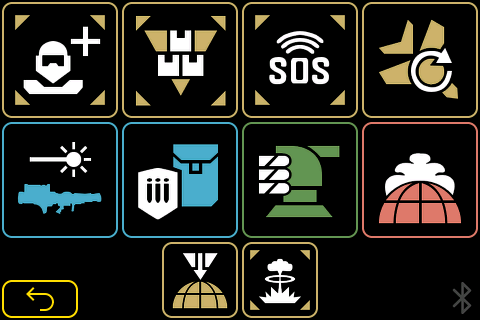
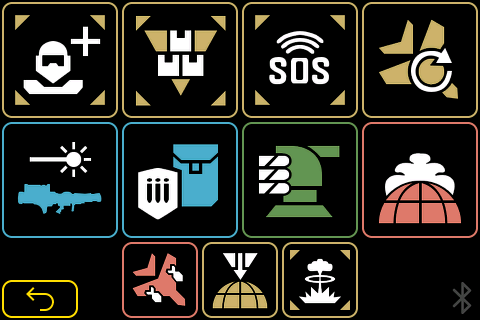
Add 5th user stratagems for assignment

Changed region(s): [[0.25, 0.75, 0.75, 1.0]]

diff --git a/src/ui/screens/ui_Setup.c b/src/ui/screens/ui_Setup.c
@@ -652,7 +652,7 @@ void ui_Setup_screen_init(void)
 
     ui_Container3 = lv_obj_create(ui_Stationary);
     lv_obj_remove_style_all(ui_Container3);
-    lv_obj_set_width(ui_Container3, lv_pct(90));
+    lv_obj_set_width(ui_Container3, lv_pct(100));
     lv_obj_set_height(ui_Container3, lv_pct(100));
     lv_obj_set_align(ui_Container3, LV_ALIGN_CENTER);
     lv_obj_set_flex_flow(ui_Container3, LV_FLEX_FLOW_ROW_WRAP);
@@ -768,7 +768,8 @@ void ui_Setup_screen_init(void)
     ui_StationaryFS = lv_btn_create(ui_Container3);
     lv_obj_set_width(ui_StationaryFS, 72);
     lv_obj_set_height(ui_StationaryFS, 72);
-    lv_obj_add_flag(ui_StationaryFS, LV_OBJ_FLAG_CHECKABLE | LV_OBJ_FLAG_SCROLL_ON_FOCUS);     /// Flags
+    lv_obj_add_flag(ui_StationaryFS, LV_OBJ_FLAG_CHECKABLE | LV_OBJ_FLAG_FLEX_IN_NEW_TRACK |
+                    LV_OBJ_FLAG_SCROLL_ON_FOCUS);   /// Flags
     lv_obj_clear_flag(ui_StationaryFS, LV_OBJ_FLAG_SCROLLABLE);      /// Flags
     lv_obj_set_style_bg_color(ui_StationaryFS, lv_color_hex(0xFFDF00), LV_PART_MAIN | LV_STATE_DEFAULT);
     lv_obj_set_style_bg_opa(ui_StationaryFS, 0, LV_PART_MAIN | LV_STATE_DEFAULT);
@@ -868,7 +869,8 @@ void ui_Setup_screen_init(void)
     ui_StationarySGR = lv_btn_create(ui_Container3);
     lv_obj_set_width(ui_StationarySGR, 72);
     lv_obj_set_height(ui_StationarySGR, 72);
-    lv_obj_add_flag(ui_StationarySGR, LV_OBJ_FLAG_CHECKABLE | LV_OBJ_FLAG_SCROLL_ON_FOCUS);     /// Flags
+    lv_obj_add_flag(ui_StationarySGR, LV_OBJ_FLAG_CHECKABLE | LV_OBJ_FLAG_FLEX_IN_NEW_TRACK |
+                    LV_OBJ_FLAG_SCROLL_ON_FOCUS);   /// Flags
     lv_obj_clear_flag(ui_StationarySGR, LV_OBJ_FLAG_SCROLLABLE);      /// Flags
     lv_obj_set_style_bg_color(ui_StationarySGR, lv_color_hex(0xFFDF00), LV_PART_MAIN | LV_STATE_DEFAULT);
     lv_obj_set_style_bg_opa(ui_StationarySGR, 0, LV_PART_MAIN | LV_STATE_DEFAULT);
@@ -1216,7 +1218,7 @@ void ui_Setup_screen_init(void)
 
     ui_Container7 = lv_obj_create(ui_Eagle);
     lv_obj_remove_style_all(ui_Container7);
-    lv_obj_set_width(ui_Container7, lv_pct(75));
+    lv_obj_set_width(ui_Container7, lv_pct(100));
     lv_obj_set_height(ui_Container7, lv_pct(100));
     lv_obj_set_align(ui_Container7, LV_ALIGN_CENTER);
     lv_obj_set_flex_flow(ui_Container7, LV_FLEX_FLOW_ROW_WRAP);
@@ -1312,7 +1314,8 @@ void ui_Setup_screen_init(void)
     ui_EagleSR = lv_btn_create(ui_Container7);
     lv_obj_set_width(ui_EagleSR, 72);
     lv_obj_set_height(ui_EagleSR, 72);
-    lv_obj_add_flag(ui_EagleSR, LV_OBJ_FLAG_CHECKABLE | LV_OBJ_FLAG_SCROLL_ON_FOCUS);     /// Flags
+    lv_obj_add_flag(ui_EagleSR, LV_OBJ_FLAG_CHECKABLE | LV_OBJ_FLAG_FLEX_IN_NEW_TRACK |
+                    LV_OBJ_FLAG_SCROLL_ON_FOCUS);     /// Flags
     lv_obj_clear_flag(ui_EagleSR, LV_OBJ_FLAG_SCROLLABLE);      /// Flags
     lv_obj_set_style_bg_color(ui_EagleSR, lv_color_hex(0xFFDF00), LV_PART_MAIN | LV_STATE_DEFAULT);
     lv_obj_set_style_bg_opa(ui_EagleSR, 0, LV_PART_MAIN | LV_STATE_DEFAULT);
@@ -1426,7 +1429,7 @@ void ui_Setup_screen_init(void)
                                            _ui_theme_alpha_colorActive);
 
     ui_BarAmount = lv_bar_create(ui_SetupFooter);
-    lv_bar_set_range(ui_BarAmount, 0, 4);
+    lv_bar_set_range(ui_BarAmount, 0, 5);
     lv_obj_set_width(ui_BarAmount, 192);
     lv_obj_set_height(ui_BarAmount, 8);
     lv_obj_set_x(ui_BarAmount, 0);
@@ -1444,7 +1447,7 @@ void ui_Setup_screen_init(void)
     lv_obj_set_width(ui_LblAmount, 40);
     lv_obj_set_height(ui_LblAmount, LV_SIZE_CONTENT);    /// 1
     lv_obj_set_align(ui_LblAmount, LV_ALIGN_TOP_MID);
-    lv_label_set_text(ui_LblAmount, "0 / 4");
+    lv_label_set_text(ui_LblAmount, "0 / 5");
     ui_object_set_themeable_style_property(ui_LblAmount, LV_PART_MAIN | LV_STATE_DEFAULT, LV_STYLE_TEXT_COLOR,
                                            _ui_theme_color_colorTheme);
     ui_object_set_themeable_style_property(ui_LblAmount, LV_PART_MAIN | LV_STATE_DEFAULT, LV_STYLE_TEXT_OPA,

diff --git a/src/ui/ui_events.c b/src/ui/ui_events.c
@@ -14,11 +14,12 @@
 #include "ui_assignment.h"
 
 // 4 user button list
-lv_obj_t *buttons[4];
+lv_obj_t *buttons[5];
+const int userStratagemAmount = 5;
 // Stratagem list index of user buttons
-int indices[4];
+int indices[5];
 // Strategem item colors of user buttons
-lv_color_t colors[4];
+lv_color_t colors[5];
 // Amount of user assigned stratagems
 uint8_t strategemsAmount = 0;
 
@@ -28,7 +29,7 @@ uint8_t strategemsAmount = 0;
 // Unassign stratagem item from button
 void deselectStratagem(lv_event_t *e)
 {
-	for (uint8_t c = 0; c < 4; c++)
+	for (uint8_t c = 0; c < userStratagemAmount; c++)
 	{
 		if (buttons[c] == e->target)
 		{
@@ -46,9 +47,9 @@ void deselectStratagem(lv_event_t *e)
 // Assign stratagem item from button
 void selectStratagem(lv_event_t *e)
 {
-	if (strategemsAmount < 4)
+	if (strategemsAmount < userStratagemAmount)
 	{
-		for (uint8_t c = 0; c < 4; c++)
+		for (uint8_t c = 0; c < userStratagemAmount; c++)
 		{
 			if (buttons[c] == NULL)
 			{
@@ -81,7 +82,7 @@ void updateStratagemSelection()
 {
 	strategemsAmount = 0;
 
-	for (uint8_t c = 0; c < 4; c++)
+	for (uint8_t c = 0; c < userStratagemAmount; c++)
 	{
 		if (buttons[c] != NULL)
 		{
@@ -91,12 +92,12 @@ void updateStratagemSelection()
 
 	lv_bar_set_value(uic_BarAmount, strategemsAmount, LV_ANIM_OFF);
 
-	char textAmount[] = "0 / 4";
+	char textAmount[] = "0 / 5";
 	textAmount[0] = (char)(strategemsAmount + '0');
 
 	lv_label_set_text(uic_LabelAmount, &textAmount);
 
-	if (strategemsAmount == 4)
+	if (strategemsAmount == userStratagemAmount)
 	{
 		GotoGame(NULL);
 	}
@@ -110,7 +111,7 @@ void resetStratagems(lv_event_t *e)
 		return;
 	}
 
-	for (uint8_t c = 0; c < 4; c++)
+	for (uint8_t c = 0; c < userStratagemAmount; c++)
 	{
 		if (buttons[c] != NULL)
 		{
@@ -293,6 +294,19 @@ void triggerStratagemUser4(lv_event_t *e)
 	playbackSound(path);
 }
 
+// Trigger 5th user stratagem
+void triggerStratagemUser5(lv_event_t *e)
+{
+	uint8_t itemIndex = indices[4];
+
+	setStratagemCode(sequences[itemIndex], INPUT_CTRL_MASK, false);
+
+	uint8_t soundIndex = soundMap[itemIndex];
+	char *path = soundFiles[soundIndex];
+
+	playbackSound(path);
+}
+
 // Change HID input delay
 void ChangeDelay(lv_event_t *e)
 {
@@ -361,14 +375,14 @@ void FlipScreen(lv_event_t *e)
 // Goto game screen
 void GotoGame(lv_event_t *e)
 {
-	for (uint8_t c = 0; c < 4; c++)
+	for (uint8_t c = 0; c < userStratagemAmount; c++)
 	{
 		const lv_obj_t *button = buttons[c];
 		const lv_img_dsc_t *bgImg = lv_obj_get_style_bg_img_src(button, LV_PART_MAIN | LV_STATE_DEFAULT);
 		const bool configured = buttons[c] != NULL;
 		lv_obj_t *targetButton = ui_CustomStratagem1;
 
-		const lv_img_dsc_t *hires = ResolveHiResIcon(bgImg);
+		bool useHiResIcon = true;
 
 		switch (c)
 		{
@@ -381,14 +395,20 @@ void GotoGame(lv_event_t *e)
 		case 3:
 			targetButton = ui_CustomStratagem4;
 			break;
+		case 4:
+			targetButton = ui_CustomStratagem5;
+			useHiResIcon = false;
+			break;
 		}
+
+		const lv_img_dsc_t *hires = useHiResIcon ? ResolveHiResIcon(bgImg) : bgImg;
 
 		if (configured)
 		{
-			lv_obj_set_style_border_color(targetButton, colors[c], LV_PART_MAIN | LV_STATE_DEFAULT);			
+			lv_obj_set_style_border_color(targetButton, colors[c], LV_PART_MAIN | LV_STATE_DEFAULT);
 			lv_obj_set_style_bg_img_src(targetButton, hires, LV_PART_MAIN | LV_STATE_DEFAULT);
 
-			lv_obj_clear_flag(targetButton, LV_OBJ_FLAG_HIDDEN);			
+			lv_obj_clear_flag(targetButton, LV_OBJ_FLAG_HIDDEN);
 		}
 		else
 		{

diff --git a/src/ui/screens/ui_Game.c b/src/ui/screens/ui_Game.c
@@ -218,11 +218,11 @@ void ui_Game_screen_init(void)
 
     ui_Container5 = lv_obj_create(ui_Game);
     lv_obj_remove_style_all(ui_Container5);
-    lv_obj_set_width(ui_Container5, LV_SIZE_CONTENT);   /// 1
+    lv_obj_set_width(ui_Container5, lv_pct(50));
     lv_obj_set_height(ui_Container5, LV_SIZE_CONTENT);    /// 1
     lv_obj_set_align(ui_Container5, LV_ALIGN_BOTTOM_MID);
     lv_obj_set_flex_flow(ui_Container5, LV_FLEX_FLOW_ROW);
-    lv_obj_set_flex_align(ui_Container5, LV_FLEX_ALIGN_START, LV_FLEX_ALIGN_START, LV_FLEX_ALIGN_START);
+    lv_obj_set_flex_align(ui_Container5, LV_FLEX_ALIGN_CENTER, LV_FLEX_ALIGN_START, LV_FLEX_ALIGN_START);
     lv_obj_clear_flag(ui_Container5, LV_OBJ_FLAG_CLICKABLE | LV_OBJ_FLAG_SCROLLABLE);      /// Flags
     lv_obj_set_style_pad_left(ui_Container5, 2, LV_PART_MAIN | LV_STATE_DEFAULT);
     lv_obj_set_style_pad_right(ui_Container5, 2, LV_PART_MAIN | LV_STATE_DEFAULT);
@@ -230,6 +230,26 @@ void ui_Game_screen_init(void)
     lv_obj_set_style_pad_bottom(ui_Container5, 2, LV_PART_MAIN | LV_STATE_DEFAULT);
     lv_obj_set_style_pad_row(ui_Container5, 4, LV_PART_MAIN | LV_STATE_DEFAULT);
     lv_obj_set_style_pad_column(ui_Container5, 4, LV_PART_MAIN | LV_STATE_DEFAULT);
+
+    ui_CustomStratagem5 = lv_btn_create(ui_Container5);
+    lv_obj_set_width(ui_CustomStratagem5, 76);
+    lv_obj_set_height(ui_CustomStratagem5, 76);
+    lv_obj_set_x(ui_CustomStratagem5, 244);
+    lv_obj_set_y(ui_CustomStratagem5, -8);
+    lv_obj_set_align(ui_CustomStratagem5, LV_ALIGN_BOTTOM_LEFT);
+    lv_obj_add_flag(ui_CustomStratagem5, LV_OBJ_FLAG_SCROLL_ON_FOCUS);     /// Flags
+    lv_obj_clear_flag(ui_CustomStratagem5, LV_OBJ_FLAG_SCROLLABLE);      /// Flags
+    lv_obj_set_style_bg_color(ui_CustomStratagem5, lv_color_hex(0x000000), LV_PART_MAIN | LV_STATE_DEFAULT);
+    lv_obj_set_style_bg_opa(ui_CustomStratagem5, 127, LV_PART_MAIN | LV_STATE_DEFAULT);
+    ui_object_set_themeable_style_property(ui_CustomStratagem5, LV_PART_MAIN | LV_STATE_DEFAULT, LV_STYLE_BORDER_COLOR,
+                                           _ui_theme_color_colorTheme);
+    ui_object_set_themeable_style_property(ui_CustomStratagem5, LV_PART_MAIN | LV_STATE_DEFAULT, LV_STYLE_BORDER_OPA,
+                                           _ui_theme_alpha_colorTheme);
+    lv_obj_set_style_border_width(ui_CustomStratagem5, 2, LV_PART_MAIN | LV_STATE_DEFAULT);
+    ui_object_set_themeable_style_property(ui_CustomStratagem5, LV_PART_MAIN | LV_STATE_PRESSED, LV_STYLE_BORDER_COLOR,
+                                           _ui_theme_color_colorActive);
+    ui_object_set_themeable_style_property(ui_CustomStratagem5, LV_PART_MAIN | LV_STATE_PRESSED, LV_STYLE_BORDER_OPA,
+                                           _ui_theme_alpha_colorActive);
 
     ui_BtnSEAF = lv_btn_create(ui_Container5);
     lv_obj_set_width(ui_BtnSEAF, 76);
@@ -278,6 +298,7 @@ void ui_Game_screen_init(void)
     lv_obj_add_event_cb(ui_CustomStratagem3, ui_event_CustomStratagem3, LV_EVENT_ALL, NULL);
     lv_obj_add_event_cb(ui_CustomStratagem4, ui_event_CustomStratagem4, LV_EVENT_ALL, NULL);
     lv_obj_add_event_cb(ui_BtnBack, ui_event_BtnBack, LV_EVENT_ALL, NULL);
+    lv_obj_add_event_cb(ui_CustomStratagem5, ui_event_CustomStratagem5, LV_EVENT_ALL, NULL);
     lv_obj_add_event_cb(ui_BtnSEAF, ui_event_BtnSEAF, LV_EVENT_ALL, NULL);
     lv_obj_add_event_cb(ui_BtnHellbomb, ui_event_BtnHellbomb, LV_EVENT_ALL, NULL);
     uic_CntBT = ui_CntBT;

diff --git a/src/ui/ui.c b/src/ui/ui.c
@@ -194,6 +194,8 @@ void ui_event_BtnBack(lv_event_t * e);
 lv_obj_t * ui_BtnBack;
 lv_obj_t * ui_CntBT;
 lv_obj_t * ui_Container5;
+void ui_event_CustomStratagem5(lv_event_t * e);
+lv_obj_t * ui_CustomStratagem5;
 void ui_event_BtnSEAF(lv_event_t * e);
 lv_obj_t * ui_BtnSEAF;
 void ui_event_BtnHellbomb(lv_event_t * e);
@@ -1314,6 +1316,15 @@ void ui_event_BtnBack(lv_event_t * e)
 
     if(event_code == LV_EVENT_CLICKED) {
         _ui_screen_change(&ui_Setup, LV_SCR_LOAD_ANIM_MOVE_RIGHT, 1000, 0, &ui_Setup_screen_init);
+    }
+}
+
+void ui_event_CustomStratagem5(lv_event_t * e)
+{
+    lv_event_code_t event_code = lv_event_get_code(e);
+
+    if(event_code == LV_EVENT_CLICKED) {
+        triggerStratagemUser5(e);
     }
 }
 

diff --git a/src/ui/ui_events.h b/src/ui/ui_events.h
@@ -83,6 +83,7 @@ void triggerStratagemUser1(lv_event_t * e);
 void triggerStratagemUser2(lv_event_t * e);
 void triggerStratagemUser3(lv_event_t * e);
 void triggerStratagemUser4(lv_event_t * e);
+void triggerStratagemUser5(lv_event_t * e);
 void triggerStratagemStd5(lv_event_t * e);
 void triggerStratagemStd6(lv_event_t * e);
 void resetStratagems(lv_event_t * e);

diff --git a/src/ui/ui.h b/src/ui/ui.h
@@ -211,6 +211,8 @@ void ui_event_BtnBack(lv_event_t * e);
 extern lv_obj_t * ui_BtnBack;
 extern lv_obj_t * ui_CntBT;
 extern lv_obj_t * ui_Container5;
+void ui_event_CustomStratagem5(lv_event_t * e);
+extern lv_obj_t * ui_CustomStratagem5;
 void ui_event_BtnSEAF(lv_event_t * e);
 extern lv_obj_t * ui_BtnSEAF;
 void ui_event_BtnHellbomb(lv_event_t * e);

diff --git a/squareline/SquareLine_Project_events.py b/squareline/SquareLine_Project_events.py
@@ -162,3 +162,11 @@ def triggerStratagemStd7(event_struct):
 def ChangeKeymap(event_struct):
     return
 
+
+def triggerStratagemUser5(event_struct):
+    return
+
+
+def triggerStratagemUser6(event_struct):
+    return
+

diff --git a/README.md b/README.md
@@ -84,7 +84,7 @@ Instructions for printing and assembling go along with STL files on...
 ### In-game usage
 - The 4 upper stratagems are the basic items for all operation types (reinforce, resupply, SOS, rearm eagle).
 - The 4 middle stratagems are the ones you selected in the setup procedure.
-- The 2 lower stratagems are typical items for most operations (S.E.A.F. artillery, hellbomb).
+- The 2 + 1 lower stratagems are typical items for most operations (S.E.A.F. artillery, hellbomb) and a 5th custom user stratagem if there a bonus stratagems from high command.
 - Just click a strategem to activate the execution of the macro.
 - The Bluetooth icon in the lower right corner indicates the connection stats.
   - ![](squareline/assets/bt_dis.png) disconnected
@@ -94,7 +94,7 @@ Instructions for printing and assembling go along with STL files on...
 1. If you want to change your selection just click the "back" button at the bottom left corner.
 2. You screen will switch back from game to setup mode.
 3. Now you can either unselect the unwanted stratagems inside the groups or just click "reset" at the bottom right corner to unselect all selected stratagems from the list.
-4. As soon as you're finished just click the "Play" button or have selected 4 stratagems again and the screen will automatically switch from setup to game mode.
+4. As soon as you're finished just click the "Play" button or have selected 4 (+1 bonus) stratagems again and the screen will automatically switch from setup to game mode.
 
 ## Device configuration
 If you click on "Config" on the setup screen you will enter the device configuration with specific hard-/software features.
